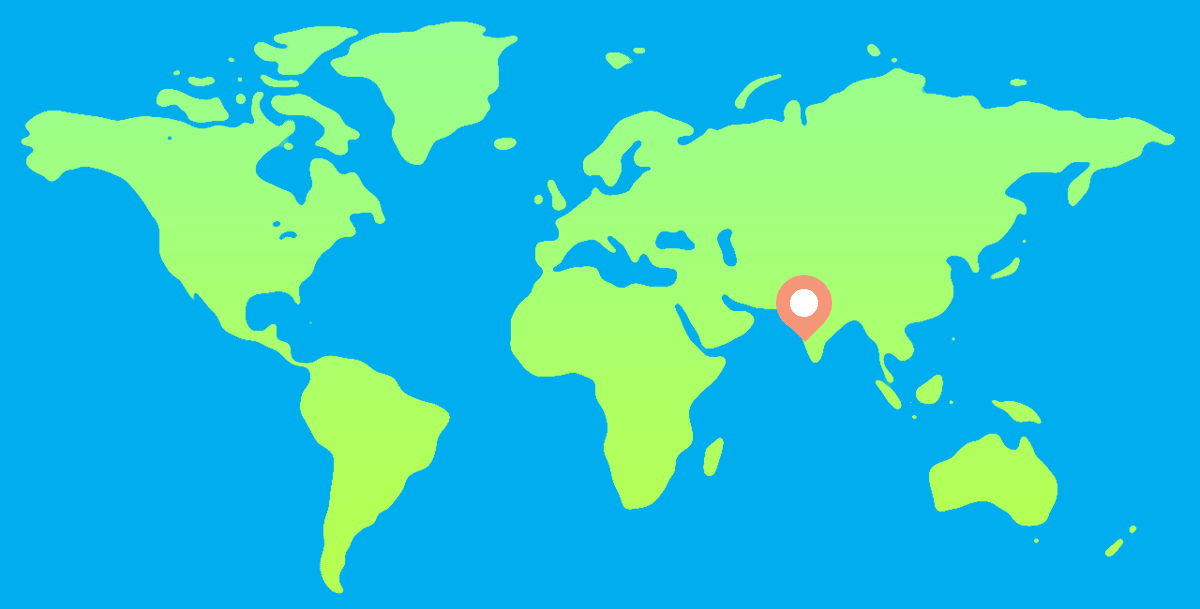
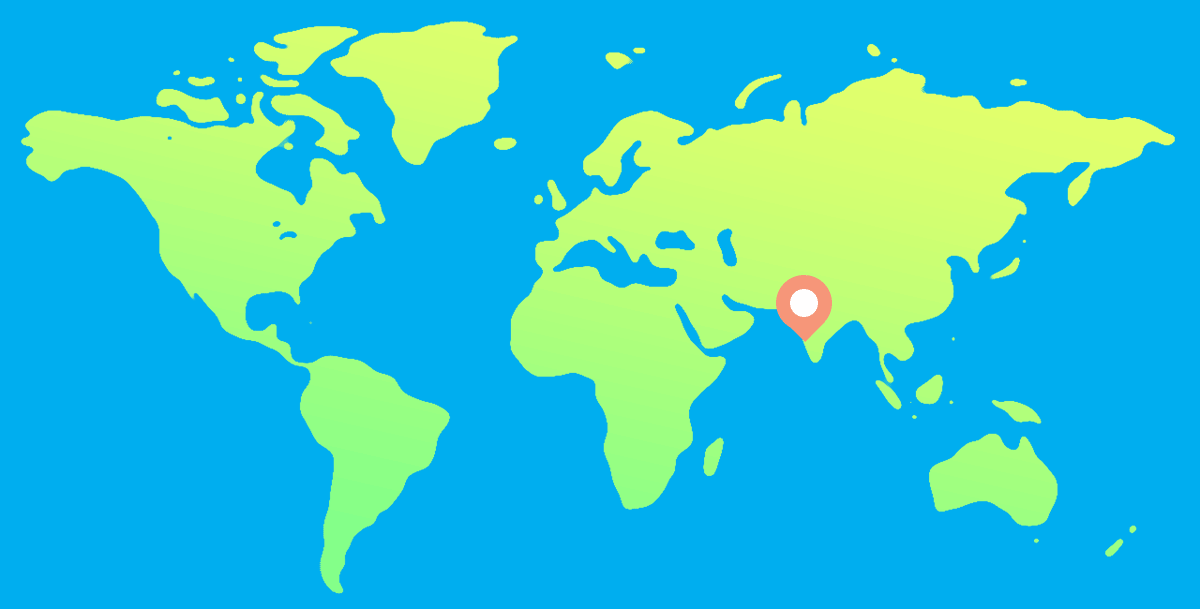
Made gradient more pronounced in world map image

diff --git a/public/stylesheets/style.less b/public/stylesheets/style.less
@@ -279,10 +279,10 @@ section.goa-blurred {
 	}
 	.worldmap {
 		background-image: url("../images/worldmap.png");
-		background-size: 600px 304px;
+		background-size: 600px 305px;
 		background-repeat: no-repeat;
 		width: 600px;
-		height: 304px;
+		height: 305px;
 	}
 }
 
